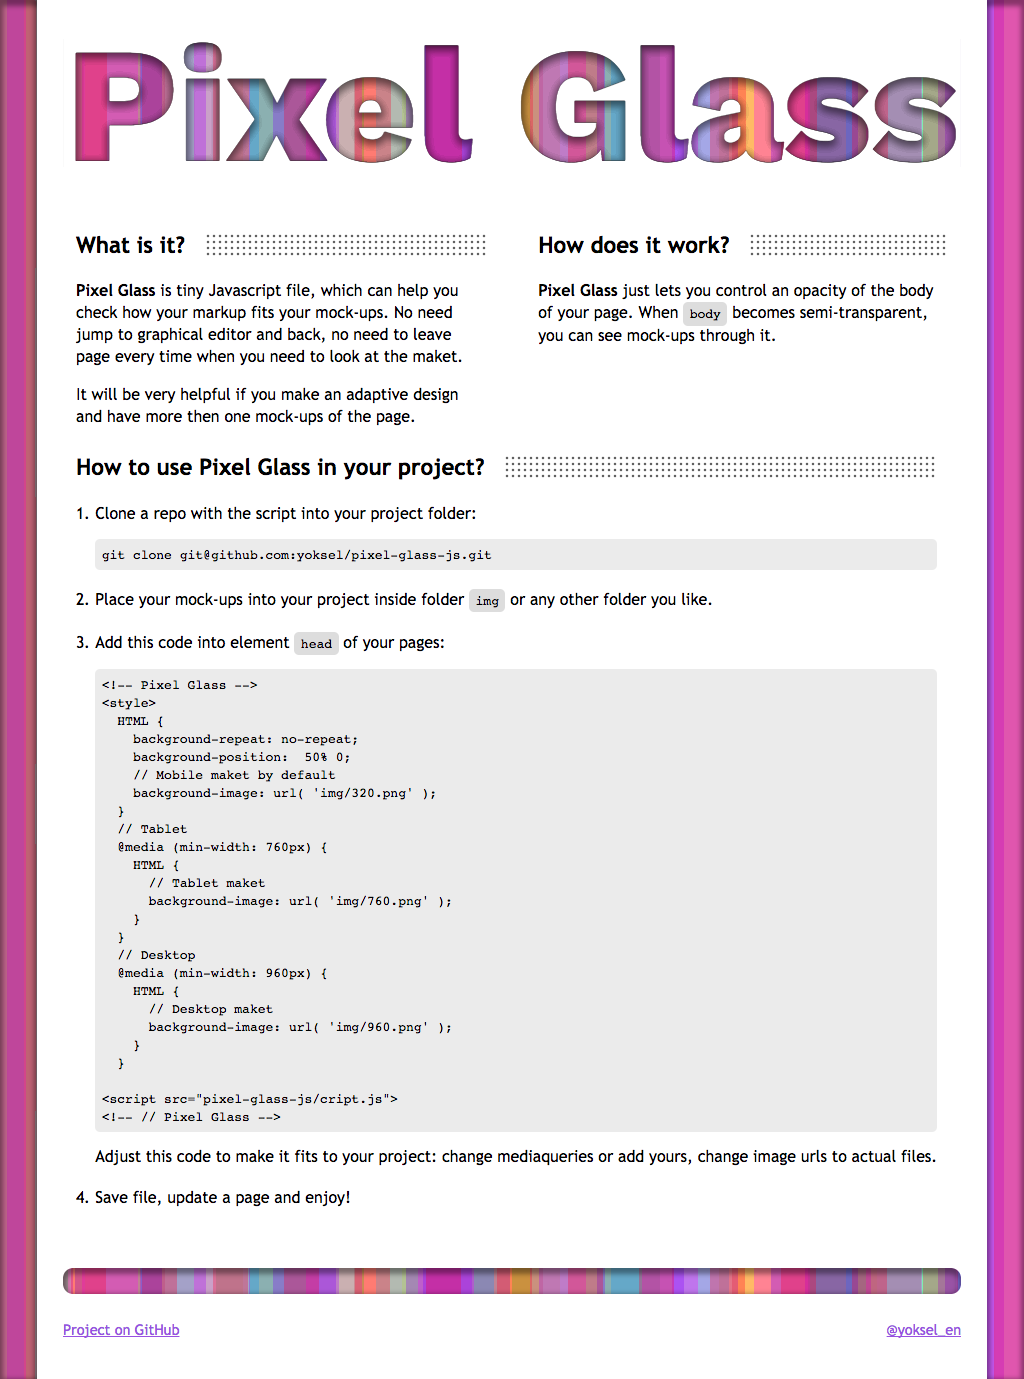
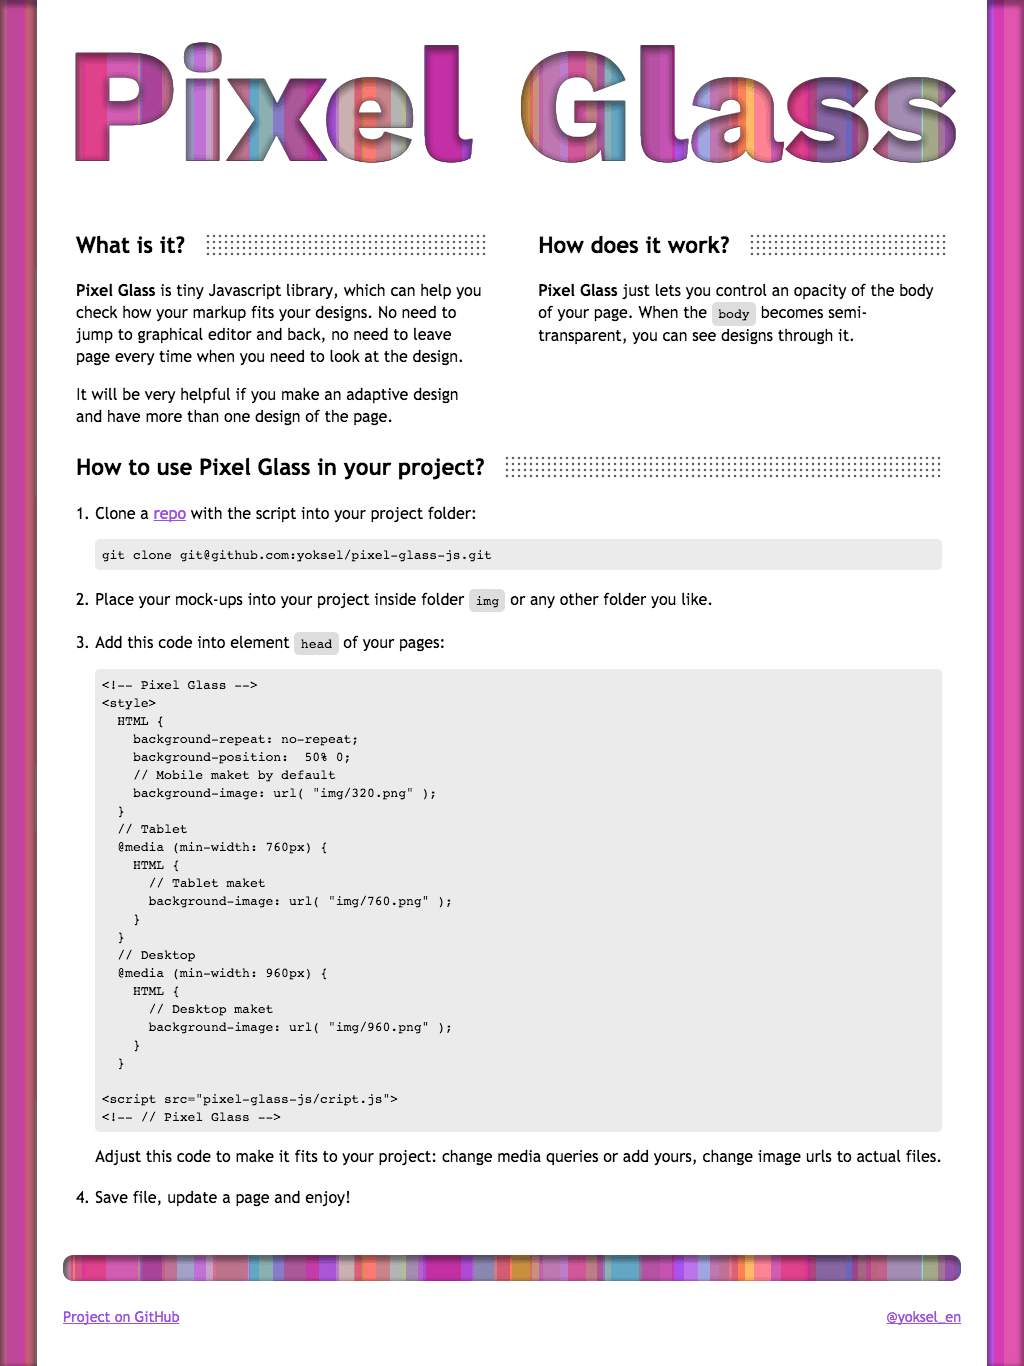
Update index page

diff --git a/index.html b/index.html
@@ -36,24 +36,17 @@
       viewBox="0 0 770 110">
         <defs>
           <filter id="inset-shadow">
-            <!-- Shadow Offset -->
             <feOffset dx="0" dy="3"/>
-            <!-- Shadow Blur -->
             <feGaussianBlur stdDeviation="3"
               result="offset-blur"/>
-            <!-- Invert the drop shadow
-                 to create an inner shadow -->
             <feComposite operator="out"
               in="SourceGraphic" in2="offset-blur"
               result="inverse"/>
-            <!-- Color & Opacity -->
-            <feFlood flood-color="white" flood-opacity=".25"
+            <feFlood flood-color="white" flood-opacity=".2"
               result="color"/>
-            <!-- Clip color inside shadow -->
             <feComposite operator="in"
               in="color" in2="inverse"
               result="shadow"/>
-            <!-- Put shadow over original object -->
             <feComposite operator="over"
               in="shadow" in2="SourceGraphic"/>
           </filter>
@@ -84,20 +77,18 @@
         <section class="section section--what-is">
           <h2 class="section__title">What is it?</h2>
 
-          <p><b>Pixel Glass</b> is tiny Javascript file, which can help you check how your markup fits your mock-ups. No need jump to graphical editor and back, no need to leave page every time when you need to look at the maket.</p>
+          <p><b>Pixel Glass</b> is tiny Javascript library, which can help you check how your markup fits your designs. No need to jump to graphical editor and back, no need to leave page every time when you need to look at the design.</p>
 
-          <p> It will be very helpful if you make an adaptive design and have more then one mock-ups of the page.</p>
+          <p>It will be very helpful if you make an adaptive design and have more than one design of the page.</p>
         </section>
 
         <section class="section section--how-works">
           <h2 class="section__title">How does it work?</h2>
 
-          <div class="page-aside__content">
-            <b>Pixel Glass</b> just lets you control an opacity of the body of your page. When <code class="code code--inline">body</code> becomes semi-transparent, you can see mock-ups through it.
+          <p><b>Pixel Glass</b> just lets you control an opacity of the body of your page. When the <code class="code code--inline">body</code> becomes semi-transparent, you can see designs through it.</p>
 
-            <div class="sticky-container">
-              <div class="sticky-point"></div>
-            </div>
+          <div class="sticky-container">
+            <div class="sticky-point"></div>
           </div>
         </section>
 
@@ -105,7 +96,7 @@
           <h2 class="section__title">How to use Pixel Glass in your project?</h2>
 
           <ol>
-            <li>Clone a repo with the script into your project folder:
+            <li>Clone a <a href="https://github.com/yoksel/pixel-glass-js/">repo</a> with the script into your project folder:
 <pre><code class="code code--block">git clone git@github.com:yoksel/pixel-glass-js.git</code></pre>            </li>
             <li>
               Place your mock-ups into your project inside folder <code class="code code--inline">img</code> or any other folder you like.
@@ -138,7 +129,7 @@
 &lt;!-- // Pixel Glass -->
 </code></pre>
 
-          Adjust this code to make it fits to your project: change mediaqueries or add yours, change image urls to actual files.
+          Adjust this code to make it fits to your project: change media queries or add yours, change image urls to actual files.
             </li>
             <li>Save file, update a page and enjoy!</li>
           </ol>

diff --git a/demo.css b/demo.css
@@ -9,7 +9,7 @@ BODY {
   transition: all .5s;
 }
 
-P:last-child {
+P:last-of-type {
   margin-bottom: 0;
 }
 
@@ -109,7 +109,7 @@ H2:first-child {
 
 .page-wrapper {
   max-width: 100%;
-  padding: 2rem 1.5rem 3rem;
+  padding: 3rem 1.5rem;
   box-sizing: border-box;
   background: #FFF;
   box-shadow: 0 3px 7px 3px hsla(0,0%,0%,.4);
@@ -141,14 +141,28 @@ H2:first-child {
 --------------------------------------------- */
 
 .page-header {
+  position: relative;
   margin-bottom: 3rem;
   box-sizing: border-box;
   text-align: center;
 }
 
-@media ( min-width: 600px ) {
+/* Hides thin transparent lines on the edges of the logo */
+.page-header::after {
+  content: '';
+  display: block;
+  position: absolute;
+  top: 1px;
+  right: 1px;
+  bottom: 1px;
+  left: 1px;
+  outline: 2px solid white;
+  pointer-events: none;
+}
+
+@media ( min-width: 500px ) {
   .page-header {
-    margin-bottom: 4rem;
+    margin-bottom: 3rem;
   }
 }
 
@@ -174,7 +188,7 @@ H2:first-child {
 --------------------------------------------- */
 
 .page-container {
-  margin: 3rem auto;
+  margin: 0 auto;
 }
 
 @media ( min-width: 600px ) {
@@ -259,6 +273,7 @@ H2:first-child {
 
 /* STICKY POINT
 --------------------------------------------- */
+
 .sticky-container {
   width: 100%;
 }
@@ -274,13 +289,13 @@ H2:first-child {
   display: flex;
   justify-content: center;
   align-items: center;
-  margin-top: 1rem;
   box-shadow: inset 0 3px 7px 3px hsla(0,0%,0%,.3);
   border-radius: 10px;
 }
 
 .sticky-container--filled .sticky-point {
   min-height: 65px;
+  margin-top: 1rem;
 }
 
 .sticky-container--collapse .sticky-point {
@@ -305,6 +320,7 @@ H2:first-child {
   }
   100% {
     min-height: 0;
+    margin-top: 0;
     margin-left: 50%;
     margin-right: 50%;
   }
